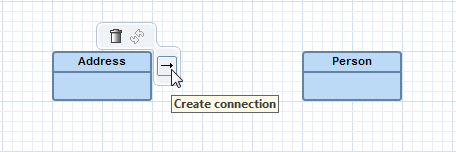
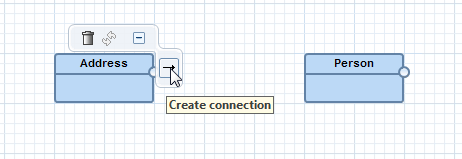
New images for chapter "Providing Context Buttons"

diff --git a/examples/org.eclipse.graphiti.doc/resources/docu/gfw/context-buttons.htm b/examples/org.eclipse.graphiti.doc/resources/docu/gfw/context-buttons.htm
@@ -36,17 +36,17 @@ getContextButtonPad</a> has to return the context buttons for the given context
 </p>
 <p>There are different groups of context buttons:</p>
 <ul>
-	<li>Generic context buttons: their look and behaviour is standardized for all 
-	tools (e.g. &quot;delete&quot;, &quot;remove&quot; and &quot;update&quot;). They are shown at the top of the 
-	pictogram element in a predefined order. A specific tool can only choose which 
-	of the generic context buttons to switch on/off.</li>
-	<li>Domain specific context buttons: they are specific for each tool (e.g. &quot;create 
-	sub-class&quot; in a class editor). They are shown at the right (and if necessary 
-	also bottom) of the pictogram element. A specific tool must define the look 
-	and behaviour for all domain specific context buttons. </li>
-	<li>Collapse context button: the look and position for the collapse context 
-	button is standardized for all tools. A specific tool must define the behavior 
-	of the collapse context button by defining the feature to call (see
+	<li><em>Generic context buttons</em>: their look and behaviour is standardized 
+	for all tools (e.g. &quot;delete&quot;, &quot;remove&quot; and &quot;update&quot;). They are shown at the 
+	top of the pictogram element in a predefined order. A specific tool can only 
+	choose which of the generic context buttons to switch on/off.</li>
+	<li><em>Domain specific context buttons</em>: they are specific for each tool 
+	(e.g. &quot;create sub-class&quot; in a class editor). They are shown at the right (and 
+	if necessary also bottom) of the pictogram element. A specific tool must define 
+	the look and behaviour for all domain specific context buttons. </li>
+	<li><em>Collapse context button</em>: the look and position for the collapse 
+	context button is standardized for all tools. A specific tool must define the 
+	behavior of the collapse context button by defining the feature to call (see
 	<a href="../../../javadoc/org/eclipse/graphiti/tb/ContextEntryHelper.html#createCollapseContextButton(boolean, org.eclipse.graphiti.features.IFeature, org.eclipse.graphiti.features.context.IContext)">
 	createCollapseContextButton</a>).</li>
 </ul>
@@ -61,17 +61,21 @@ drop features are available, a context-menu will be offered to the user when he
 drops the connection, and he can choose the feature to execute.</p>
 <p>In this example we want to create one context button, which offers all available
 <a href="create-connection-feature.htm">create connection features</a> as drag &amp; 
-drop features, but has no click-feature. </p>
+drop features, but has no click-feature. Additionally, we implement a collapse context 
+button, which will pop up a message, that it has not a final implementation.</p>
 <p>&nbsp;</p>
-<p><img alt="" height="152" src="visio/context-buttons-click.png" width="456"></p>
+<p><img alt="" height="159" src="visio/context-buttons-click.png" width="462"></p>
 <p><strong>Figure: A context button, which the user can click or start drag &amp; drop 
 from it</strong></p>
 <p>&nbsp;</p>
-<p>&nbsp;</p>
-<p><img alt="" height="153" src="visio/context-buttons-drag.png" width="451"></p>
+<p><img alt="" height="159" src="visio/context-buttons-drag.png" width="457"></p>
 <p><strong>Figure: The user started dragging from the context button</strong></p>
 <p>&nbsp;</p>
-<p>You can see the complete implementation of the context button here:</p>
+<p>
+<img alt="" height="161" src="visio/context-buttons-collapse.png" width="459"></p>
+<p><strong>Figure: A context button, which the user can click</strong></p>
+<p>&nbsp;</p>
+<p>You can see the complete implementation of the context and collapse buttons here:</p>
 <!-- Begin code ------------------------------------------------------------------------------- -->
 <p>&nbsp;</p>
 <div class="literallayout">
@@ -138,10 +142,11 @@ from it</strong></p>
 <p>&nbsp;</p>
 <!-- End code  -------------------------------------------------------------------------------  -->
 <p>&nbsp;</p>
-<p>The implementation of <span class="inlinecode">MyTutorialImageProvider</span> can be found
-<a href="images.htm">here</a>. The implementation of the 
-<span class="inlinecode">TutorialCollapseDummyFeature</span> 
-can be found at <a href="#Implementation_of_the_Tutorial_Collapse_Dummy_Feature">the end of this page</a>.</p>
+<p>The implementation of <span class="inlinecode">MyTutorialImageProvider</span> 
+can be found <a href="images.htm">here</a>. The implementation of the
+<span class="inlinecode">TutorialCollapseDummyFeature</span> can be found at
+<a href="#Implementation_of_the_Tutorial_Collapse_Dummy_Feature">the end of this 
+page</a>.</p>
 <p>The context button entries contain information about icon, display text and tooltip 
 description.</p>
 <p>The positioning of the context buttons can be influenced by changing the rectangle 
@@ -175,7 +180,8 @@ creating an association between two EClasses.</p>
 a connection, if the source and target business object are identical. If you have 
 two different shapes associated with the same business object (e.g. via copy &amp; paste), 
 then creating a connection between them is not possible.</p>
-<h2><a name="Implementation_of_the_Tutorial_Collapse_Dummy_Feature">Implementation of the Tutorial Collapse Dummy Feature</a></h2>
+<h2><a name="Implementation_of_the_Tutorial_Collapse_Dummy_Feature">Implementation 
+of the Tutorial Collapse Dummy Feature</a></h2>
 <!-- Begin code ------------------------------------------------------------------------------- -->
 <p>&nbsp;</p>
 <div class="literallayout">
@@ -225,8 +231,7 @@ then creating a connection between them is not possible.</p>
 <p>&nbsp;</p>
 <!-- End code  -------------------------------------------------------------------------------  -->
 <p>Finally the feature provider has to deliver our newly created custom feature 
-(overwrite the method
-<span class="inlinecode">getCustomFeatures(..)</span><a href="../../../javadoc/org/eclipse/graphiti/features/IFeatureProvider.html#getCustomFeatures(org.eclipse.graphiti.features.context.ICustomContext)"></a>).</p>
+(overwrite the method <span class="inlinecode">getCustomFeatures(..)</span><a href="../../../javadoc/org/eclipse/graphiti/features/IFeatureProvider.html#getCustomFeatures(org.eclipse.graphiti.features.context.ICustomContext)"></a>).</p>
 <p>This implementation can be seen here:</p>
 <!-- Begin code ------------------------------------------------------------------------------- -->
 <p>&nbsp;</p>
@@ -244,6 +249,9 @@ then creating a connection between them is not possible.</p>
 </div>
 <!-- End code  -------------------------------------------------------------------------------  -->
 <p>&nbsp;</p>
+<p>
+<img alt="" height="305" src="visio/context-buttons-collapse-2.png" width="710"></p>
+<p><strong>Figure: Clicking the collape button</strong></p>
 
 </body>
 
